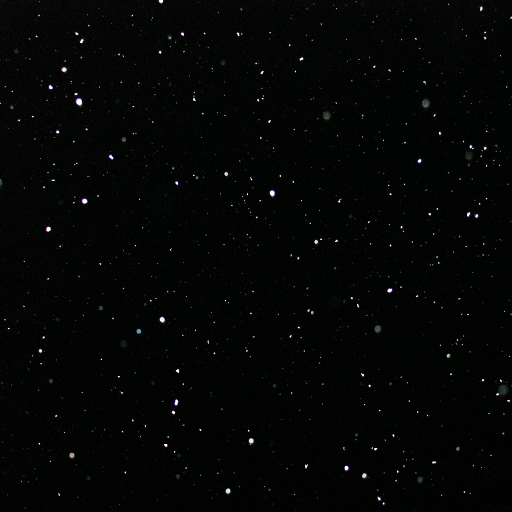
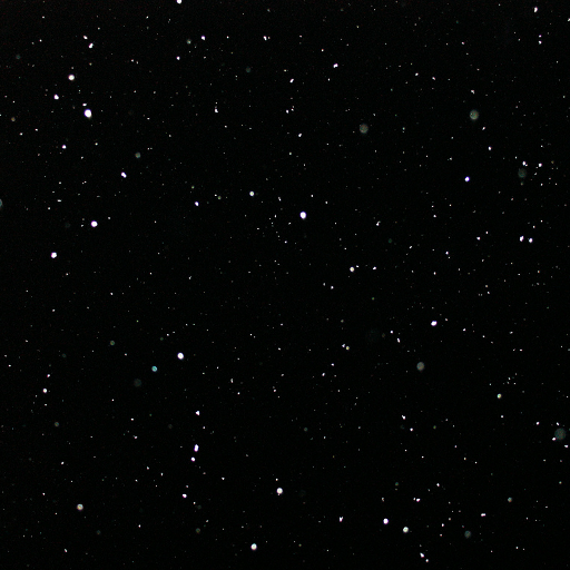
Different backdrop and bullet.

diff --git a/src/globals.cpp b/src/globals.cpp
@@ -32,9 +32,9 @@ EnemyMgr *G::enemyMgr () {
 bool G::loadImages () {
 	bool succ = true;
 
-	succ = succ && G::Images::backdrop.LoadFromFile("media/backdrop.tga");
+	succ = succ && G::Images::backdrop.LoadFromFile("media/space.png");
 	succ = succ && G::Images::player.LoadFromFile("media/astronaut.png");
-	succ = succ && G::Images::bullet.LoadFromFile("media/bullet.tga");
+	succ = succ && G::Images::bullet.LoadFromFile("media/bullet.png");
 	succ = succ && G::Images::glow.LoadFromFile("media/glow.tga");
 	succ = succ && G::Images::enemy_circle.LoadFromFile("media/pea.png");
 	succ = succ && G::Images::enemy_triangle.LoadFromFile("media/enemy-triangle.tga");
